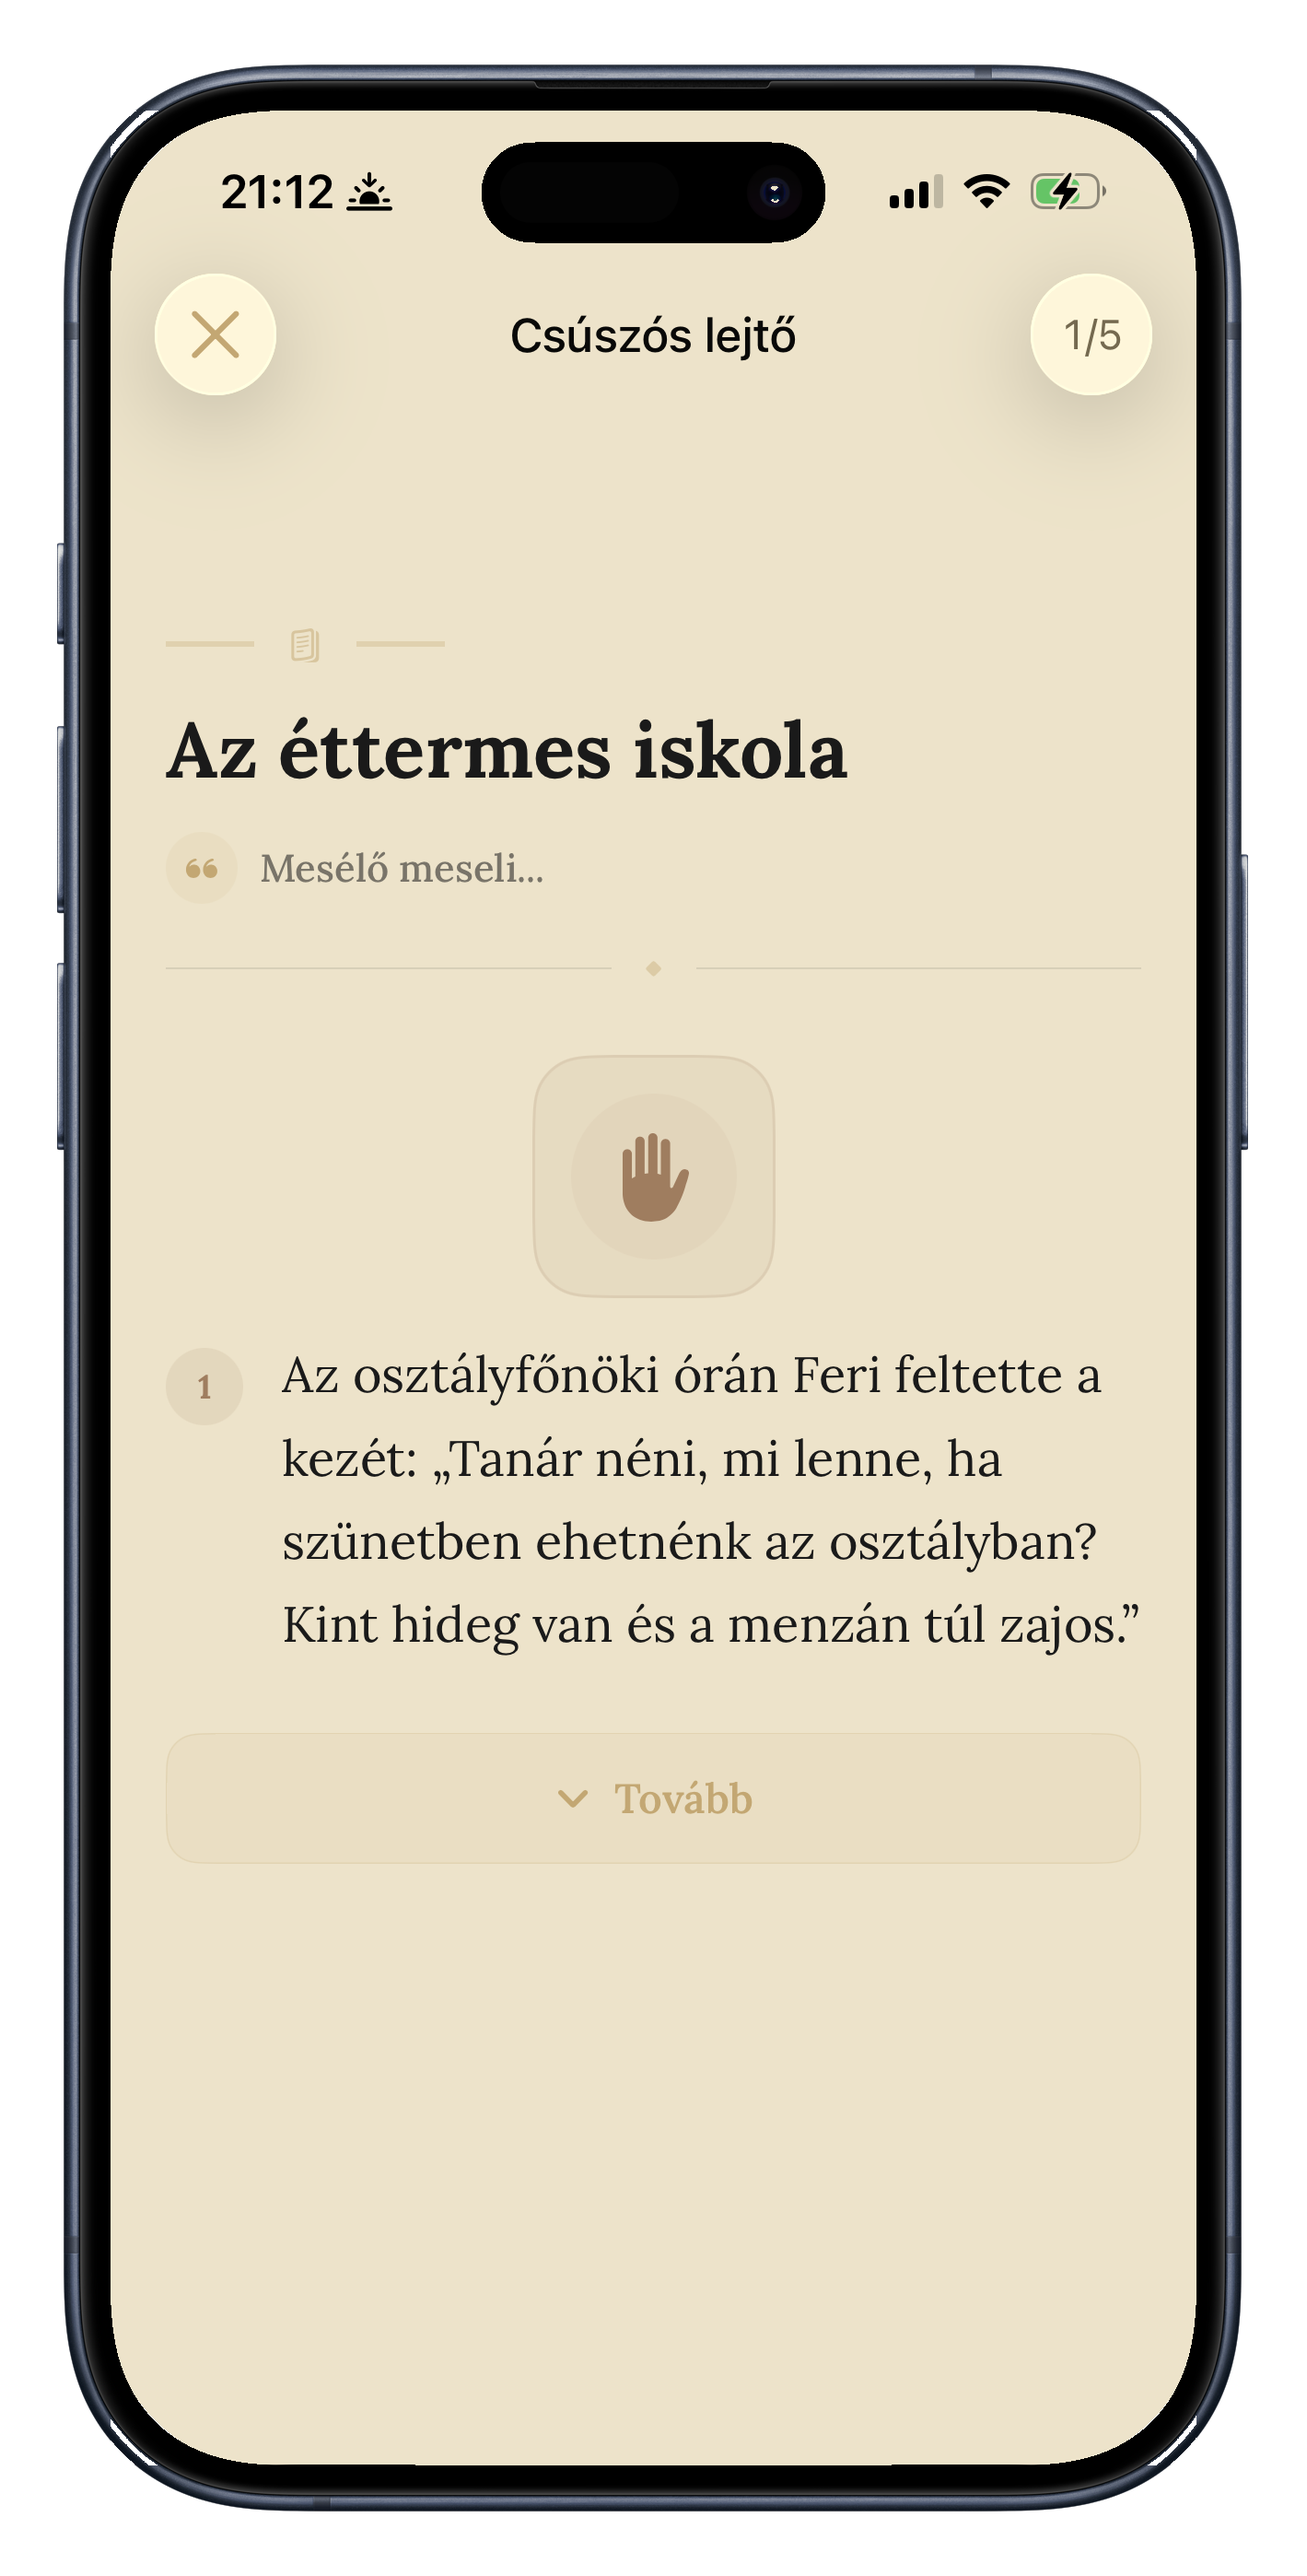
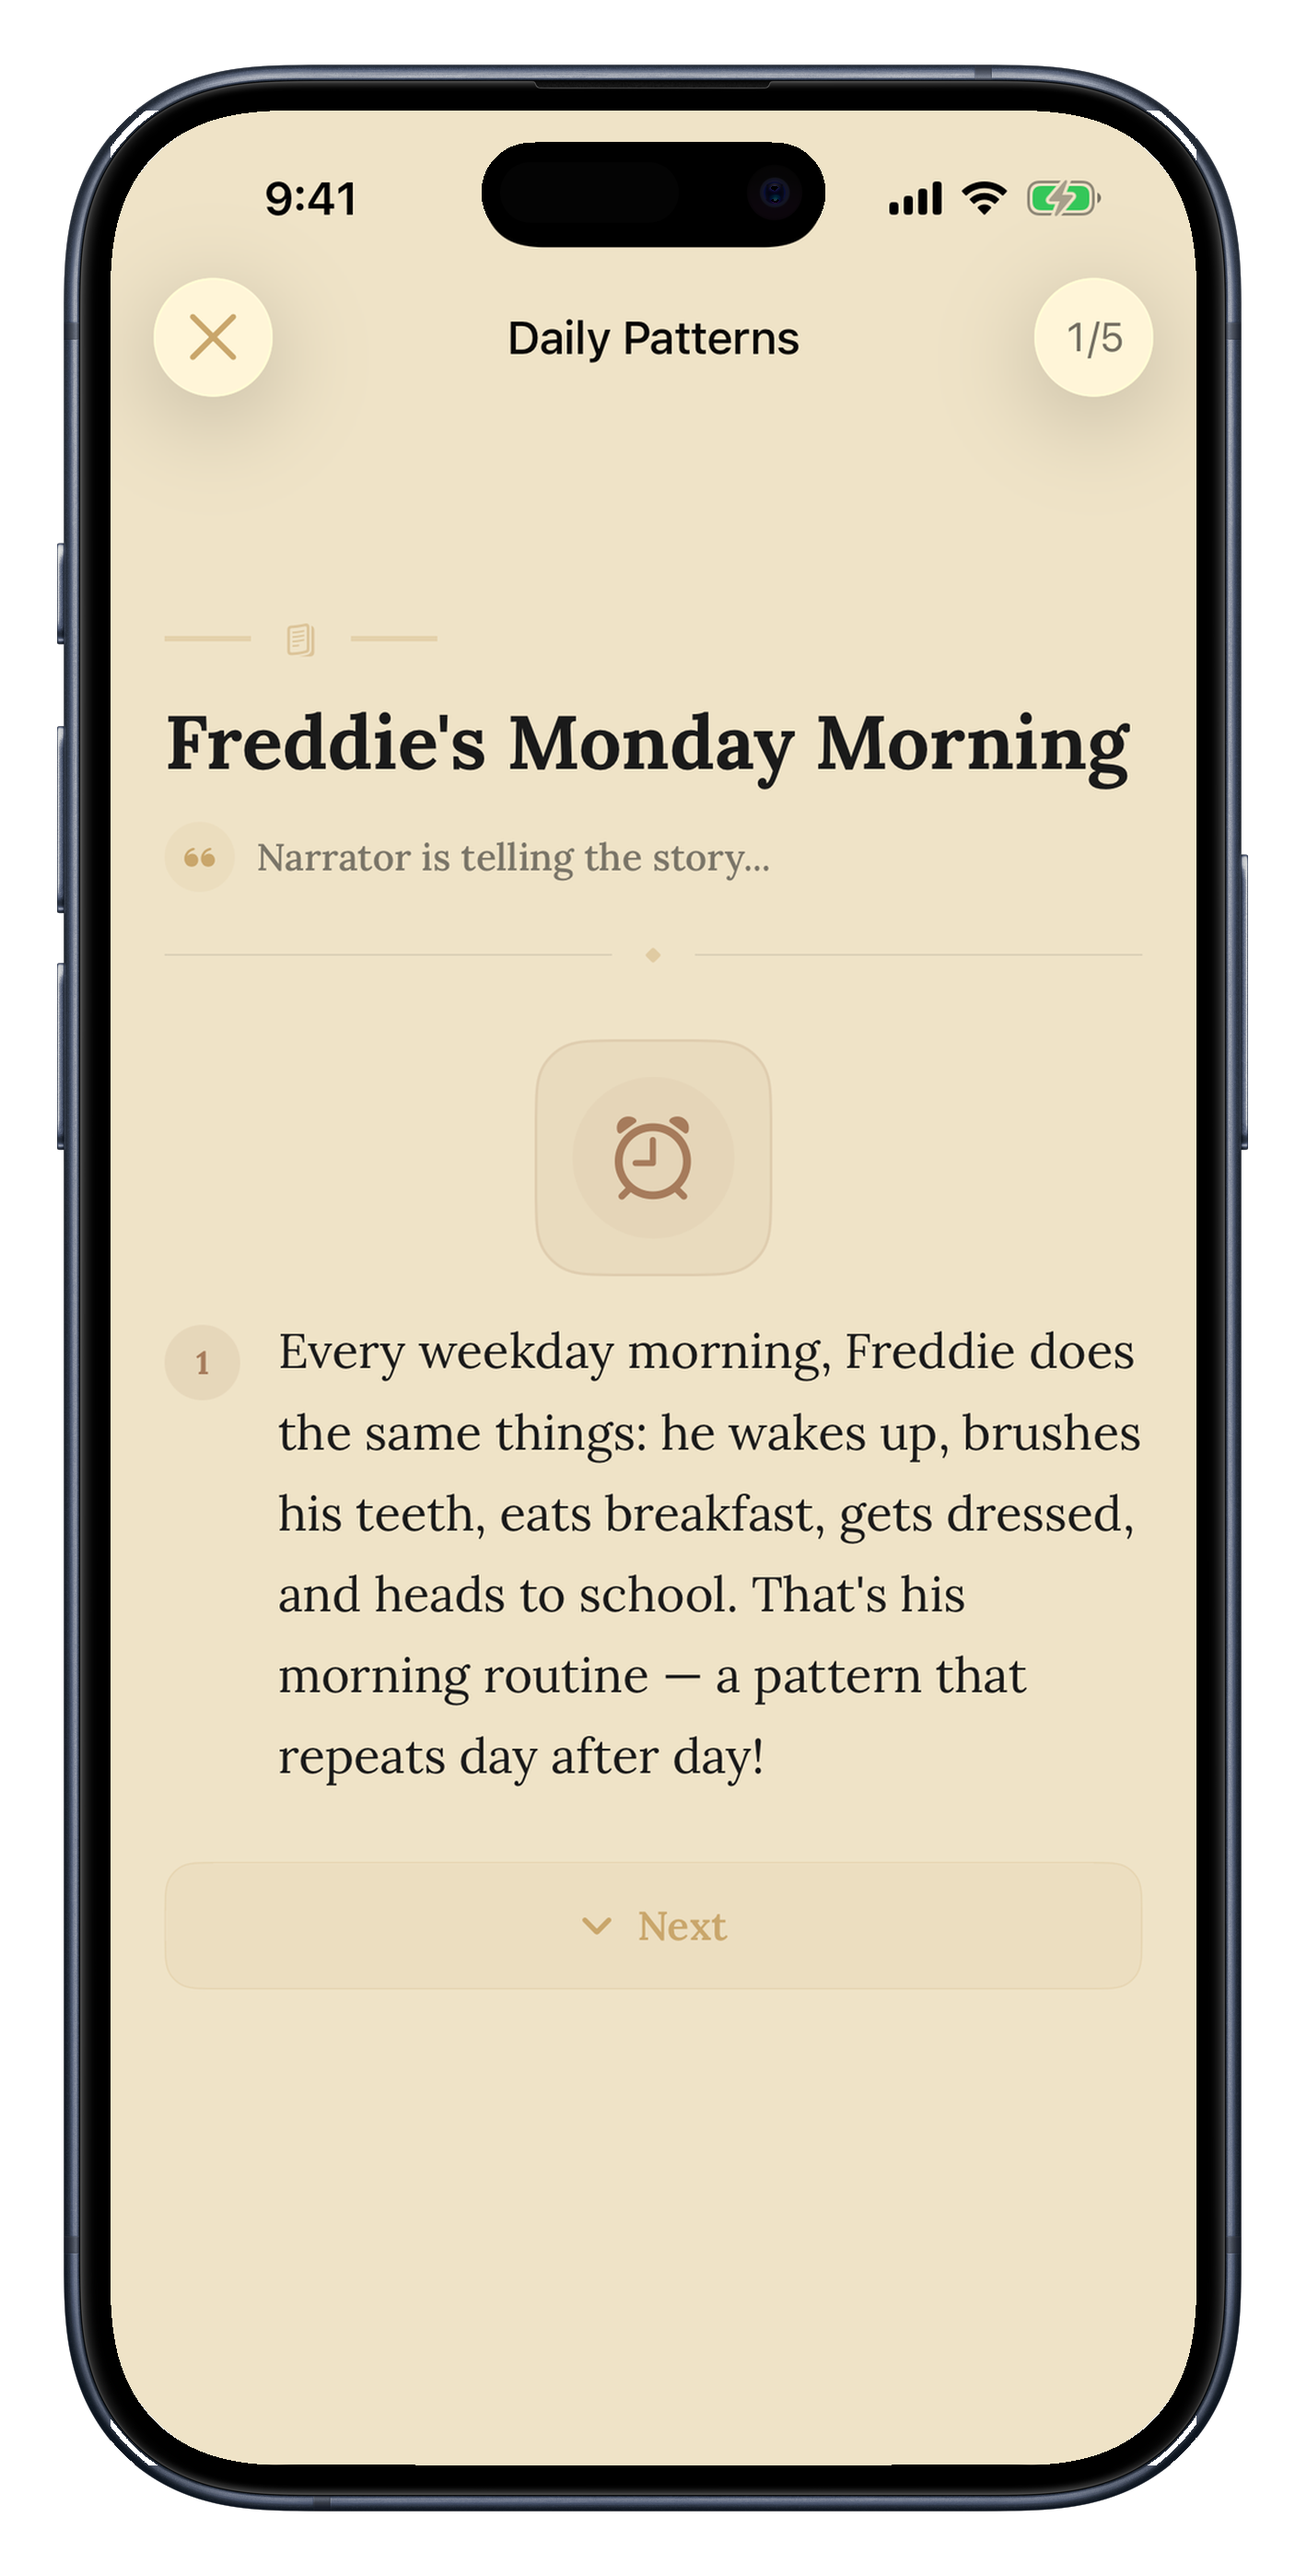
poster_2: Patrik's own English captures in the parent and lesson figures

diff --git a/poster_2.html b/poster_2.html
@@ -753,7 +753,7 @@
                             <figure class="s3"><img class="dev" src="posterimages/framed2/feedback.png" alt="Feedback stage"></figure>
                         </div>
                     </div>
-                    <div class="fig-footer warm">The “Slippery slope” lesson: the concept arrives inside a scene the child knows, becomes a task the child must solve, and a wrong answer ends in an explanation, never a penalty. A socratic AI chat comes last to make sure the child understood the concept, and isnt just mashing buttons.</div>
+                    <div class="fig-footer warm">The “Daily Patterns” lesson: the concept arrives inside a scene the child knows, becomes a task the child must solve, and a wrong answer ends in an explanation, never a penalty. A socratic AI chat comes last to make sure the child understood the concept, and isnt just mashing buttons.</div>
                 </div>
 
                 <div class="info-panel warm">
